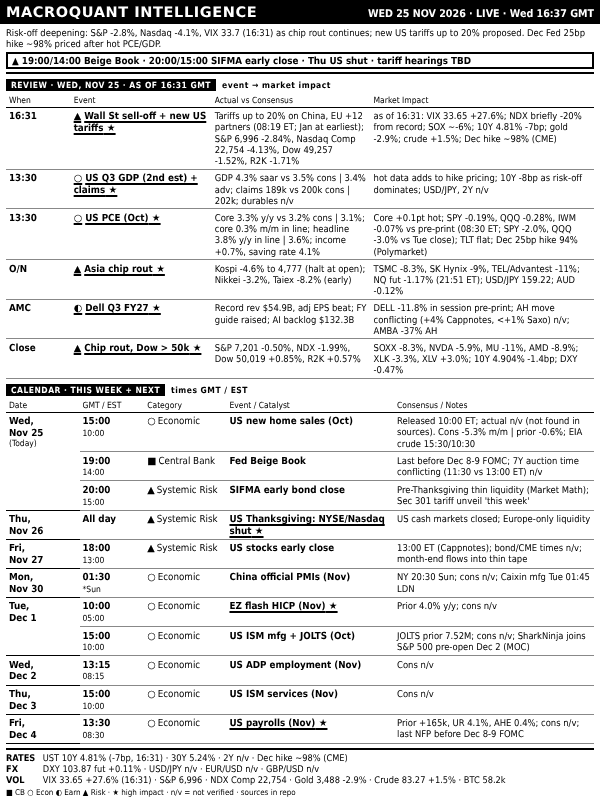
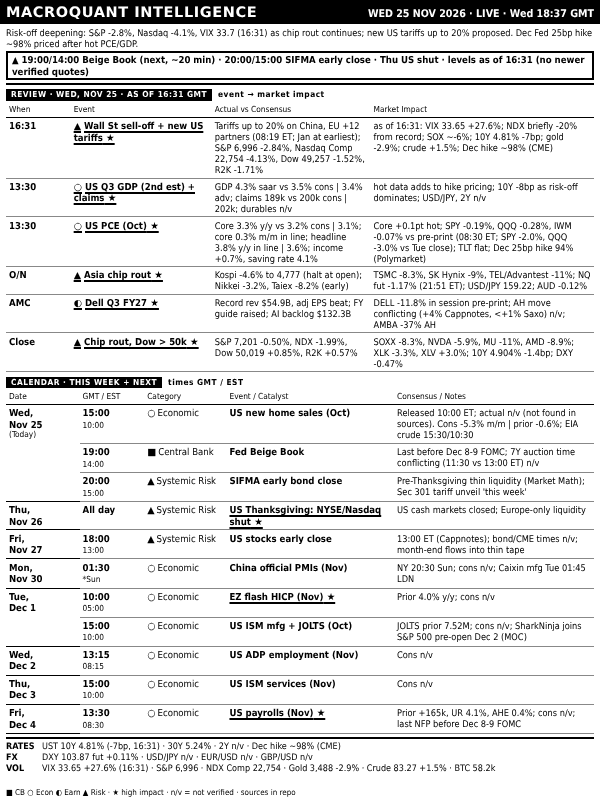
dashboard: WED 25 NOV 2026 LIVE 18:40
Claude-Session: https://claude.ai/code/session_016SJqa5wYFgvtEu9vGxpTYU

Changed region(s): [[0.0, 0.0312, 0.99, 1.0], [0.0, 0.625, 0.09, 0.7812], [0.0, 0.2188, 0.06, 0.4375]]

diff --git a/out/dashboard.html b/out/dashboard.html
@@ -38,8 +38,8 @@ table.bd{border-collapse:collapse;width:100%;table-layout:fixed;margin-top:1px}
 </style></head><body>
 <div id="root">
  <div class="hdr"><span class="t">MACROQUANT INTELLIGENCE</span>
-  <span class="r">WED 25 NOV 2026 · LIVE · Wed 16:37 GMT</span></div>
- <div class="ban"><div class="rg">Risk-off deepening: S&amp;P -2.8%, Nasdaq -4.1%, VIX 33.7 (16:31) as chip rout continues; new US tariffs up to 20% proposed. Dec Fed 25bp hike ~98% priced after hot PCE/GDP.</div><div class="al">▲ 19:00/14:00 Beige Book · 20:00/15:00 SIFMA early close · Thu US shut · tariff hearings TBD</div></div>
+  <span class="r">WED 25 NOV 2026 · LIVE · Wed 18:37 GMT</span></div>
+ <div class="ban"><div class="rg">Risk-off deepening: S&amp;P -2.8%, Nasdaq -4.1%, VIX 33.7 (16:31) as chip rout continues; new US tariffs up to 20% proposed. Dec Fed 25bp hike ~98% priced after hot PCE/GDP.</div><div class="al">▲ 19:00/14:00 Beige Book (next, ~20 min) · 20:00/15:00 SIFMA early close · Thu US shut · levels as of 16:31 (no newer verified quotes)</div></div>
  <div class="sl"><span>REVIEW · WED, NOV 25 · AS OF 16:31 GMT</span>event → market impact</div><table class="bd rv"><colgroup><col style="width:11%"><col style="width:24%"><col style="width:27%"><col></colgroup><tr><th>When</th><th>Event</th><th>Actual vs Consensus</th><th>Market Impact</th></tr><tr class="h"><td class="tm"><b>16:31</b></td><td class="ev"><i>▲</i>Wall St sell-off + new US tariffs</td><td class="ac">Tariffs up to 20% on China, EU +12 partners (08:19 ET; Jan at earliest); S&amp;P 6,996 -2.84%, Nasdaq Comp 22,754 -4.13%, Dow 49,257 -1.52%, R2K -1.71%</td><td class="nt">as of 16:31: VIX 33.65 +27.6%; NDX briefly -20% from record; SOX ~-6%; 10Y 4.81% -7bp; gold -2.9%; crude +1.5%; Dec hike ~98% (CME)</td></tr><tr class="h"><td class="tm"><b>13:30</b></td><td class="ev"><i>○</i>US Q3 GDP (2nd est) + claims</td><td class="ac">GDP 4.3% saar vs 3.5% cons | 3.4% adv; claims 189k vs 200k cons | 202k; durables n/v</td><td class="nt">hot data adds to hike pricing; 10Y -8bp as risk-off dominates; USD/JPY, 2Y n/v</td></tr><tr class="h"><td class="tm"><b>13:30</b></td><td class="ev"><i>○</i>US PCE (Oct)</td><td class="ac">Core 3.3% y/y vs 3.2% cons | 3.1%; core 0.3% m/m in line; headline 3.8% y/y in line | 3.6%; income +0.7%, saving rate 4.1%</td><td class="nt">Core +0.1pt hot; SPY -0.19%, QQQ -0.28%, IWM -0.07% vs pre-print (08:30 ET; SPY -2.0%, QQQ -3.0% vs Tue close); TLT flat; Dec 25bp hike 94% (Polymarket)</td></tr><tr class="h"><td class="tm"><b>O/N</b></td><td class="ev"><i>▲</i>Asia chip rout</td><td class="ac">Kospi -4.6% to 4,777 (halt at open); Nikkei -3.2%, Taiex -8.2% (early)</td><td class="nt">TSMC -8.3%, SK Hynix -9%, TEL/Advantest -11%; NQ fut -1.17% (21:51 ET); USD/JPY 159.22; AUD -0.12%</td></tr><tr class="h"><td class="tm"><b>AMC</b></td><td class="ev"><i>◐</i>Dell Q3 FY27</td><td class="ac">Record rev $54.9B, adj EPS beat; FY guide raised; AI backlog $132.3B</td><td class="nt">DELL -11.8% in session pre-print; AH move conflicting (+4% Cappnotes, &lt;+1% Saxo) n/v; AMBA -37% AH</td></tr><tr class="h"><td class="tm"><b>Close</b></td><td class="ev"><i>▲</i>Chip rout, Dow &gt; 50k</td><td class="ac">S&amp;P 7,201 -0.50%, NDX -1.99%, Dow 50,019 +0.85%, R2K +0.57%</td><td class="nt">SOXX -8.3%, NVDA -5.9%, MU -11%, AMD -8.9%; XLK -3.3%, XLV +3.0%; 10Y 4.904% -1.4bp; DXY -0.47%</td></tr></table>
  <div class="sl"><span>CALENDAR · THIS WEEK + NEXT</span>times GMT / EST</div>
  <table class="bd"><colgroup><col style="width:12.5%"><col style="width:11%"><col style="width:14%"><col style="width:28.5%"><col></colgroup><tr><th>Date</th><th>GMT / EST</th><th>Category</th><th>Event / Catalyst</th><th>Consensus / Notes</th></tr><tr class="g0"><td class="dt" rowspan="3">Wed,<br>Nov&nbsp;25<span class="tg">(Today)</span></td><td class="tm"><b>15:00</b><span>10:00</span></td><td class="ct"><i>○</i>Economic</td><td class="ev">US new home sales (Oct)</td><td class="nt">Released 10:00 ET; actual n/v (not found in sources). Cons -5.3% m/m | prior -0.6%; EIA crude 15:30/10:30</td></tr><tr class=""><td class="tm"><b>19:00</b><span>14:00</span></td><td class="ct"><i>■</i>Central Bank</td><td class="ev">Fed Beige Book</td><td class="nt">Last before Dec 8-9 FOMC; 7Y auction time conflicting (11:30 vs 13:00 ET) n/v</td></tr><tr class=""><td class="tm"><b>20:00</b><span>15:00</span></td><td class="ct"><i>▲</i>Systemic Risk</td><td class="ev">SIFMA early bond close</td><td class="nt">Pre-Thanksgiving thin liquidity (Market Math); Sec 301 tariff unveil 'this week'</td></tr><tr class="g0 h"><td class="dt" rowspan="1">Thu,<br>Nov&nbsp;26</td><td class="tm"><b>All day</b></td><td class="ct"><i>▲</i>Systemic Risk</td><td class="ev">US Thanksgiving: NYSE/Nasdaq shut</td><td class="nt">US cash markets closed; Europe-only liquidity</td></tr><tr class="g0"><td class="dt" rowspan="1">Fri,<br>Nov&nbsp;27</td><td class="tm"><b>18:00</b><span>13:00</span></td><td class="ct"><i>▲</i>Systemic Risk</td><td class="ev">US stocks early close</td><td class="nt">13:00 ET (Cappnotes); bond/CME times n/v; month-end flows into thin tape</td></tr><tr class="g0"><td class="dt" rowspan="1">Mon,<br>Nov&nbsp;30</td><td class="tm"><b>01:30</b><span>*Sun</span></td><td class="ct"><i>○</i>Economic</td><td class="ev">China official PMIs (Nov)</td><td class="nt">NY 20:30 Sun; cons n/v; Caixin mfg Tue 01:45 LDN</td></tr><tr class="g0 h"><td class="dt" rowspan="2">Tue,<br>Dec&nbsp;1</td><td class="tm"><b>10:00</b><span>05:00</span></td><td class="ct"><i>○</i>Economic</td><td class="ev">EZ flash HICP (Nov)</td><td class="nt">Prior 4.0% y/y; cons n/v</td></tr><tr class=""><td class="tm"><b>15:00</b><span>10:00</span></td><td class="ct"><i>○</i>Economic</td><td class="ev">US ISM mfg + JOLTS (Oct)</td><td class="nt">JOLTS prior 7.52M; cons n/v; SharkNinja joins S&amp;P 500 pre-open Dec 2 (MOC)</td></tr><tr class="g0"><td class="dt" rowspan="1">Wed,<br>Dec&nbsp;2</td><td class="tm"><b>13:15</b><span>08:15</span></td><td class="ct"><i>○</i>Economic</td><td class="ev">US ADP employment (Nov)</td><td class="nt">Cons n/v</td></tr><tr class="g0"><td class="dt" rowspan="1">Thu,<br>Dec&nbsp;3</td><td class="tm"><b>15:00</b><span>10:00</span></td><td class="ct"><i>○</i>Economic</td><td class="ev">US ISM services (Nov)</td><td class="nt">Cons n/v</td></tr><tr class="g0 h"><td class="dt" rowspan="1">Fri,<br>Dec&nbsp;4</td><td class="tm"><b>13:30</b><span>08:30</span></td><td class="ct"><i>○</i>Economic</td><td class="ev">US payrolls (Nov)</td><td class="nt">Prior +165k, UR 4.1%, AHE 0.4%; cons n/v; last NFP before Dec 8-9 FOMC</td></tr></table>
